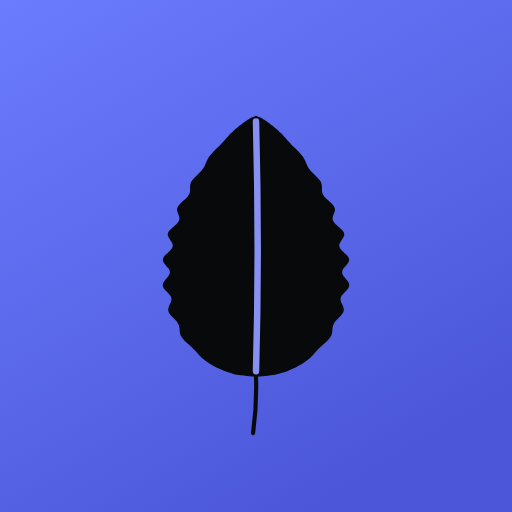
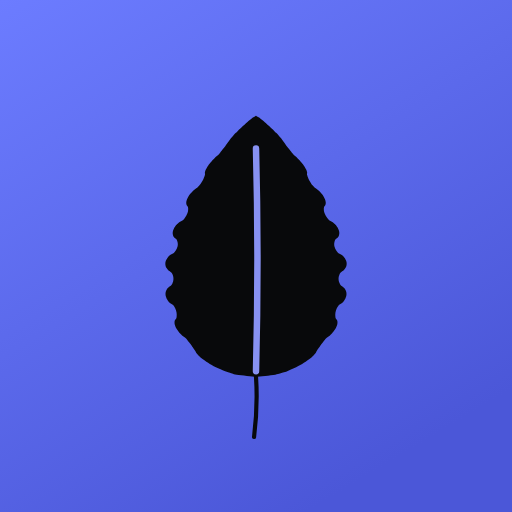
Лист ближе к натурному: круглые фестоны, три пары жилок
Прошлый вариант мельчил край рябью в десять волн и разводил четыре пары
жилок — верхняя ложилась у самой вершины и торчала за контур рожками, а
средняя жилка сливалась с ними в тёмное пятно.

Теперь фестоны круглые и их восемь: степень меньше единицы делает горбы
полными, а впадины узкими, как на настоящем листе. Жилок три пары, они
идут вбок и заворачивают вверх только у края, средняя не доходит до
кончика, а черешок продолжает её одной линией.

Claude-Session: https://claude.ai/code/session_012dgtbmCBimMGEXv6Efga8R

diff --git a/src/App.tsx b/src/App.tsx
@@ -1861,24 +1861,21 @@ const LEAF_KINDS = [
       "M 0 -19.0 Q -2.4 -20.0 -4.8 -21.6",
     ],
   },
-  // мята
-  // мята — форма с натурного листа: широкая нижняя треть, острый кончик
-  // и волнистый край. Контур считается формулой (scripts/make-leaf.mjs),
-  // а не набран руками: прежний собирался из отрезков и в мелком размере
-  // выглядел обгрызенным.
+  // мята — форма с натурного листа: широкая нижняя треть, острый кончик,
+  // круглые фестоны по краю и три пары дуговых жилок. Контур считается
+  // формулой (scripts/make-leaf.mjs), а не набран руками: прежний
+  // собирался из отрезков и в мелком размере выглядел обгрызенным.
   {
-    outline: "M 0.00 -1.00 C 0.33 -1.04, 1.52 -1.15, 1.98 -1.23 C 2.45 -1.30, 2.55 -1.38, 2.79 -1.45 C 3.02 -1.52, 3.21 -1.60, 3.39 -1.68 C 3.58 -1.75, 3.75 -1.82, 3.91 -1.90 C 4.06 -1.97, 4.21 -2.05, 4.35 -2.13 C 4.49 -2.20, 4.62 -2.27, 4.74 -2.35 C 4.87 -2.43, 4.98 -2.50, 5.09 -2.58 C 5.20 -2.65, 5.29 -2.72, 5.39 -2.80 C 5.48 -2.88, 5.56 -2.95, 5.64 -3.02 C 5.72 -3.10, 5.80 -3.17, 5.87 -3.25 C 5.94 -3.33, 6.00 -3.40, 6.07 -3.47 C 6.14 -3.55, 6.21 -3.63, 6.28 -3.70 C 6.35 -3.78, 6.42 -3.85, 6.50 -3.93 C 6.57 -4.00, 6.65 -4.08, 6.73 -4.15 C 6.81 -4.23, 6.89 -4.30, 6.98 -4.38 C 7.06 -4.45, 7.14 -4.52, 7.22 -4.60 C 7.30 -4.67, 7.38 -4.75, 7.45 -4.82 C 7.52 -4.90, 7.58 -4.97, 7.64 -5.05 C 7.69 -5.13, 7.73 -5.20, 7.77 -5.27 C 7.80 -5.35, 7.83 -5.42, 7.85 -5.50 C 7.87 -5.58, 7.88 -5.65, 7.88 -5.72 C 7.89 -5.80, 7.89 -5.87, 7.90 -5.95 C 7.91 -6.02, 7.91 -6.10, 7.93 -6.18 C 7.95 -6.25, 7.97 -6.33, 8.00 -6.40 C 8.03 -6.48, 8.07 -6.55, 8.12 -6.63 C 8.17 -6.70, 8.23 -6.78, 8.30 -6.85 C 8.37 -6.93, 8.44 -7.00, 8.51 -7.08 C 8.59 -7.15, 8.67 -7.22, 8.73 -7.30 C 8.80 -7.38, 8.87 -7.45, 8.92 -7.53 C 8.97 -7.60, 9.01 -7.67, 9.04 -7.75 C 9.06 -7.83, 9.07 -7.90, 9.07 -7.98 C 9.07 -8.05, 9.05 -8.13, 9.03 -8.20 C 9.01 -8.27, 8.97 -8.35, 8.94 -8.43 C 8.90 -8.50, 8.86 -8.57, 8.83 -8.65 C 8.80 -8.72, 8.77 -8.80, 8.75 -8.88 C 8.74 -8.95, 8.73 -9.02, 8.74 -9.10 C 8.76 -9.18, 8.78 -9.25, 8.82 -9.33 C 8.86 -9.40, 8.92 -9.47, 8.98 -9.55 C 9.04 -9.62, 9.12 -9.70, 9.19 -9.78 C 9.26 -9.85, 9.33 -9.93, 9.40 -10.00 C 9.46 -10.07, 9.52 -10.15, 9.56 -10.22 C 9.60 -10.30, 9.63 -10.38, 9.63 -10.45 C 9.64 -10.52, 9.63 -10.60, 9.60 -10.68 C 9.58 -10.75, 9.53 -10.82, 9.48 -10.90 C 9.43 -10.97, 9.36 -11.05, 9.29 -11.13 C 9.23 -11.20, 9.16 -11.28, 9.10 -11.35 C 9.05 -11.43, 8.99 -11.50, 8.96 -11.57 C 8.92 -11.65, 8.90 -11.73, 8.90 -11.80 C 8.90 -11.88, 8.91 -11.95, 8.94 -12.03 C 8.97 -12.10, 9.03 -12.18, 9.08 -12.25 C 9.14 -12.32, 9.21 -12.40, 9.27 -12.47 C 9.33 -12.55, 9.41 -12.63, 9.46 -12.70 C 9.51 -12.78, 9.56 -12.85, 9.59 -12.92 C 9.62 -13.00, 9.63 -13.07, 9.62 -13.15 C 9.62 -13.23, 9.59 -13.30, 9.54 -13.38 C 9.50 -13.45, 9.44 -13.53, 9.37 -13.60 C 9.30 -13.67, 9.21 -13.75, 9.13 -13.82 C 9.05 -13.90, 8.96 -13.98, 8.89 -14.05 C 8.82 -14.13, 8.75 -14.20, 8.70 -14.27 C 8.66 -14.35, 8.62 -14.43, 8.61 -14.50 C 8.60 -14.57, 8.60 -14.65, 8.62 -14.72 C 8.64 -14.80, 8.68 -14.88, 8.73 -14.95 C 8.77 -15.03, 8.83 -15.10, 8.88 -15.18 C 8.93 -15.25, 8.98 -15.33, 9.02 -15.40 C 9.06 -15.47, 9.10 -15.55, 9.11 -15.62 C 9.12 -15.70, 9.12 -15.78, 9.10 -15.85 C 9.08 -15.93, 9.04 -16.00, 8.98 -16.08 C 8.93 -16.15, 8.85 -16.22, 8.78 -16.30 C 8.70 -16.37, 8.60 -16.45, 8.52 -16.52 C 8.43 -16.60, 8.34 -16.68, 8.26 -16.75 C 8.19 -16.82, 8.12 -16.90, 8.06 -16.98 C 8.01 -17.05, 7.97 -17.13, 7.94 -17.20 C 7.92 -17.27, 7.91 -17.35, 7.92 -17.42 C 7.92 -17.50, 7.94 -17.58, 7.97 -17.65 C 7.99 -17.73, 8.03 -17.80, 8.06 -17.88 C 8.08 -17.95, 8.12 -18.02, 8.13 -18.10 C 8.15 -18.17, 8.16 -18.25, 8.16 -18.33 C 8.15 -18.40, 8.13 -18.48, 8.10 -18.55 C 8.07 -18.63, 8.02 -18.70, 7.95 -18.77 C 7.89 -18.85, 7.82 -18.93, 7.74 -19.00 C 7.66 -19.07, 7.57 -19.15, 7.49 -19.23 C 7.40 -19.30, 7.32 -19.38, 7.24 -19.45 C 7.17 -19.52, 7.09 -19.60, 7.04 -19.68 C 6.98 -19.75, 6.93 -19.82, 6.90 -19.90 C 6.86 -19.97, 6.84 -20.05, 6.83 -20.13 C 6.81 -20.20, 6.81 -20.28, 6.81 -20.35 C 6.81 -20.43, 6.81 -20.50, 6.81 -20.57 C 6.81 -20.65, 6.81 -20.72, 6.80 -20.80 C 6.79 -20.87, 6.78 -20.95, 6.75 -21.03 C 6.73 -21.10, 6.69 -21.18, 6.64 -21.25 C 6.60 -21.32, 6.54 -21.40, 6.47 -21.47 C 6.41 -21.55, 6.33 -21.63, 6.26 -21.70 C 6.18 -21.78, 6.10 -21.85, 6.02 -21.93 C 5.94 -22.00, 5.86 -22.07, 5.79 -22.15 C 5.72 -22.22, 5.65 -22.30, 5.59 -22.38 C 5.53 -22.45, 5.47 -22.53, 5.43 -22.60 C 5.38 -22.68, 5.34 -22.75, 5.30 -22.82 C 5.26 -22.90, 5.23 -22.98, 5.20 -23.05 C 5.17 -23.13, 5.14 -23.20, 5.11 -23.27 C 5.07 -23.35, 5.04 -23.43, 5.00 -23.50 C 4.96 -23.57, 4.92 -23.65, 4.87 -23.73 C 4.82 -23.80, 4.76 -23.88, 4.70 -23.95 C 4.64 -24.02, 4.57 -24.10, 4.50 -24.17 C 4.43 -24.25, 4.35 -24.33, 4.28 -24.40 C 4.20 -24.48, 4.12 -24.55, 4.05 -24.63 C 3.97 -24.70, 3.89 -24.77, 3.82 -24.85 C 3.74 -24.92, 3.67 -25.00, 3.60 -25.08 C 3.53 -25.15, 3.46 -25.23, 3.39 -25.30 C 3.33 -25.38, 3.26 -25.45, 3.20 -25.52 C 3.13 -25.60, 3.07 -25.68, 3.00 -25.75 C 2.93 -25.82, 2.86 -25.90, 2.79 -25.98 C 2.72 -26.05, 2.65 -26.13, 2.57 -26.20 C 2.50 -26.27, 2.42 -26.35, 2.34 -26.43 C 2.25 -26.50, 2.17 -26.57, 2.08 -26.65 C 1.99 -26.72, 1.90 -26.80, 1.81 -26.88 C 1.72 -26.95, 1.62 -27.03, 1.52 -27.10 C 1.42 -27.18, 1.32 -27.25, 1.22 -27.32 C 1.11 -27.40, 1.01 -27.47, 0.89 -27.55 C 0.77 -27.62, 0.67 -27.70, 0.52 -27.78 C 0.37 -27.85, 0.09 -27.96, 0.00 -28.00 C -0.09 -28.04, 0.09 -28.04, 0.00 -28.00 C -0.09 -27.96, -0.37 -27.85, -0.52 -27.78 C -0.67 -27.70, -0.77 -27.62, -0.89 -27.55 C -1.01 -27.47, -1.11 -27.40, -1.22 -27.32 C -1.32 -27.25, -1.42 -27.18, -1.52 -27.10 C -1.62 -27.03, -1.72 -26.95, -1.81 -26.88 C -1.90 -26.80, -1.99 -26.72, -2.08 -26.65 C -2.17 -26.57, -2.25 -26.50, -2.34 -26.43 C -2.42 -26.35, -2.50 -26.27, -2.57 -26.20 C -2.65 -26.13, -2.72 -26.05, -2.79 -25.98 C -2.86 -25.90, -2.93 -25.82, -3.00 -25.75 C -3.07 -25.68, -3.13 -25.60, -3.20 -25.52 C -3.26 -25.45, -3.33 -25.38, -3.39 -25.30 C -3.46 -25.23, -3.53 -25.15, -3.60 -25.07 C -3.67 -25.00, -3.74 -24.92, -3.82 -24.85 C -3.89 -24.77, -3.97 -24.70, -4.05 -24.63 C -4.12 -24.55, -4.20 -24.48, -4.28 -24.40 C -4.35 -24.33, -4.43 -24.25, -4.50 -24.18 C -4.57 -24.10, -4.64 -24.02, -4.70 -23.95 C -4.76 -23.88, -4.82 -23.80, -4.87 -23.73 C -4.92 -23.65, -4.96 -23.57, -5.00 -23.50 C -5.04 -23.43, -5.07 -23.35, -5.11 -23.27 C -5.14 -23.20, -5.17 -23.13, -5.20 -23.05 C -5.23 -22.98, -5.26 -22.90, -5.30 -22.82 C -5.34 -22.75, -5.38 -22.68, -5.43 -22.60 C -5.47 -22.53, -5.53 -22.45, -5.59 -22.38 C -5.65 -22.30, -5.72 -22.22, -5.79 -22.15 C -5.86 -22.07, -5.94 -22.00, -6.02 -21.93 C -6.10 -21.85, -6.18 -21.77, -6.26 -21.70 C -6.33 -21.63, -6.41 -21.55, -6.47 -21.47 C -6.54 -21.40, -6.60 -21.32, -6.64 -21.25 C -6.69 -21.18, -6.73 -21.10, -6.75 -21.03 C -6.78 -20.95, -6.79 -20.88, -6.80 -20.80 C -6.81 -20.73, -6.81 -20.65, -6.81 -20.57 C -6.81 -20.50, -6.81 -20.43, -6.81 -20.35 C -6.81 -20.28, -6.81 -20.20, -6.83 -20.12 C -6.84 -20.05, -6.86 -19.97, -6.90 -19.90 C -6.93 -19.82, -6.98 -19.75, -7.04 -19.68 C -7.09 -19.60, -7.17 -19.52, -7.24 -19.45 C -7.32 -19.38, -7.40 -19.30, -7.49 -19.23 C -7.57 -19.15, -7.66 -19.08, -7.74 -19.00 C -7.82 -18.93, -7.89 -18.85, -7.95 -18.77 C -8.02 -18.70, -8.07 -18.63, -8.10 -18.55 C -8.13 -18.48, -8.15 -18.40, -8.16 -18.32 C -8.16 -18.25, -8.15 -18.17, -8.13 -18.10 C -8.12 -18.02, -8.08 -17.95, -8.06 -17.88 C -8.03 -17.80, -7.99 -17.73, -7.97 -17.65 C -7.94 -17.58, -7.92 -17.50, -7.92 -17.43 C -7.91 -17.35, -7.92 -17.27, -7.94 -17.20 C -7.97 -17.13, -8.01 -17.05, -8.06 -16.98 C -8.12 -16.90, -8.19 -16.82, -8.26 -16.75 C -8.34 -16.68, -8.43 -16.60, -8.52 -16.52 C -8.60 -16.45, -8.70 -16.37, -8.78 -16.30 C -8.85 -16.22, -8.93 -16.15, -8.98 -16.08 C -9.04 -16.00, -9.08 -15.93, -9.10 -15.85 C -9.12 -15.78, -9.12 -15.70, -9.11 -15.63 C -9.10 -15.55, -9.06 -15.48, -9.02 -15.40 C -8.98 -15.32, -8.93 -15.25, -8.88 -15.18 C -8.83 -15.10, -8.77 -15.02, -8.73 -14.95 C -8.68 -14.88, -8.64 -14.80, -8.62 -14.72 C -8.60 -14.65, -8.60 -14.57, -8.61 -14.50 C -8.62 -14.43, -8.66 -14.35, -8.70 -14.28 C -8.75 -14.20, -8.82 -14.13, -8.89 -14.05 C -8.96 -13.97, -9.05 -13.90, -9.13 -13.82 C -9.21 -13.75, -9.30 -13.67, -9.37 -13.60 C -9.44 -13.53, -9.50 -13.45, -9.54 -13.38 C -9.59 -13.30, -9.62 -13.22, -9.62 -13.15 C -9.63 -13.07, -9.62 -13.00, -9.59 -12.92 C -9.56 -12.85, -9.51 -12.78, -9.46 -12.70 C -9.41 -12.63, -9.33 -12.55, -9.27 -12.48 C -9.21 -12.40, -9.14 -12.32, -9.08 -12.25 C -9.03 -12.17, -8.97 -12.10, -8.94 -12.03 C -8.91 -11.95, -8.90 -11.88, -8.90 -11.80 C -8.90 -11.73, -8.92 -11.65, -8.96 -11.58 C -8.99 -11.50, -9.05 -11.43, -9.10 -11.35 C -9.16 -11.27, -9.23 -11.20, -9.29 -11.13 C -9.36 -11.05, -9.43 -10.98, -9.48 -10.90 C -9.53 -10.82, -9.58 -10.75, -9.60 -10.67 C -9.63 -10.60, -9.64 -10.52, -9.63 -10.45 C -9.63 -10.38, -9.60 -10.30, -9.56 -10.22 C -9.52 -10.15, -9.46 -10.08, -9.40 -10.00 C -9.33 -9.93, -9.26 -9.85, -9.19 -9.77 C -9.12 -9.70, -9.04 -9.62, -8.98 -9.55 C -8.92 -9.47, -8.86 -9.40, -8.82 -9.33 C -8.78 -9.25, -8.76 -9.18, -8.74 -9.10 C -8.73 -9.03, -8.74 -8.95, -8.75 -8.88 C -8.77 -8.80, -8.80 -8.72, -8.83 -8.65 C -8.86 -8.57, -8.90 -8.50, -8.94 -8.43 C -8.97 -8.35, -9.01 -8.28, -9.03 -8.20 C -9.05 -8.13, -9.07 -8.05, -9.07 -7.97 C -9.07 -7.90, -9.06 -7.83, -9.04 -7.75 C -9.01 -7.67, -8.97 -7.60, -8.92 -7.53 C -8.87 -7.45, -8.80 -7.37, -8.73 -7.30 C -8.67 -7.22, -8.59 -7.15, -8.51 -7.07 C -8.44 -7.00, -8.37 -6.93, -8.30 -6.85 C -8.23 -6.78, -8.17 -6.70, -8.12 -6.63 C -8.07 -6.55, -8.03 -6.47, -8.00 -6.40 C -7.97 -6.32, -7.95 -6.25, -7.93 -6.17 C -7.91 -6.10, -7.91 -6.03, -7.90 -5.95 C -7.89 -5.88, -7.89 -5.80, -7.88 -5.73 C -7.88 -5.65, -7.87 -5.57, -7.85 -5.50 C -7.83 -5.42, -7.80 -5.35, -7.77 -5.27 C -7.73 -5.20, -7.69 -5.13, -7.64 -5.05 C -7.58 -4.98, -7.52 -4.90, -7.45 -4.83 C -7.38 -4.75, -7.30 -4.67, -7.22 -4.60 C -7.14 -4.52, -7.06 -4.45, -6.98 -4.38 C -6.89 -4.30, -6.81 -4.23, -6.73 -4.15 C -6.65 -4.08, -6.57 -4.00, -6.50 -3.92 C -6.42 -3.85, -6.35 -3.77, -6.28 -3.70 C -6.21 -3.62, -6.14 -3.55, -6.07 -3.48 C -6.00 -3.40, -5.94 -3.33, -5.87 -3.25 C -5.80 -3.18, -5.72 -3.10, -5.64 -3.02 C -5.56 -2.95, -5.48 -2.87, -5.39 -2.80 C -5.29 -2.73, -5.20 -2.65, -5.09 -2.58 C -4.98 -2.50, -4.87 -2.43, -4.74 -2.35 C -4.62 -2.28, -4.49 -2.20, -4.35 -2.12 C -4.21 -2.05, -4.06 -1.97, -3.91 -1.90 C -3.75 -1.83, -3.58 -1.75, -3.39 -1.68 C -3.21 -1.60, -3.02 -1.53, -2.79 -1.45 C -2.55 -1.38, -2.45 -1.30, -1.98 -1.22 C -1.52 -1.15, -0.33 -1.04, 0.00 -1.00 Z",
-    stem: "M 0 -1 Q 0.1 1.8 -0.3 4.8",
+    outline: "M 0.00 -1.00 C 0.33 -1.04, 1.52 -1.15, 1.99 -1.23 C 2.45 -1.30, 2.55 -1.38, 2.79 -1.45 C 3.02 -1.52, 3.21 -1.60, 3.39 -1.68 C 3.58 -1.75, 3.75 -1.82, 3.91 -1.90 C 4.07 -1.97, 4.22 -2.05, 4.37 -2.13 C 4.51 -2.20, 4.64 -2.27, 4.77 -2.35 C 4.89 -2.43, 5.01 -2.50, 5.13 -2.58 C 5.24 -2.65, 5.35 -2.72, 5.45 -2.80 C 5.55 -2.88, 5.64 -2.95, 5.73 -3.02 C 5.82 -3.10, 5.90 -3.17, 5.97 -3.25 C 6.04 -3.33, 6.11 -3.40, 6.17 -3.47 C 6.22 -3.55, 6.24 -3.63, 6.29 -3.70 C 6.34 -3.78, 6.39 -3.85, 6.44 -3.93 C 6.49 -4.00, 6.54 -4.08, 6.60 -4.15 C 6.65 -4.23, 6.70 -4.30, 6.75 -4.38 C 6.81 -4.45, 6.86 -4.52, 6.92 -4.60 C 6.98 -4.67, 7.04 -4.75, 7.10 -4.82 C 7.17 -4.90, 7.22 -4.97, 7.31 -5.05 C 7.39 -5.13, 7.52 -5.20, 7.61 -5.27 C 7.70 -5.35, 7.77 -5.42, 7.84 -5.50 C 7.91 -5.58, 7.98 -5.65, 8.03 -5.72 C 8.09 -5.80, 8.15 -5.87, 8.19 -5.95 C 8.24 -6.02, 8.28 -6.10, 8.31 -6.18 C 8.34 -6.25, 8.37 -6.33, 8.39 -6.40 C 8.41 -6.48, 8.42 -6.55, 8.42 -6.63 C 8.42 -6.70, 8.41 -6.78, 8.38 -6.85 C 8.35 -6.93, 8.26 -7.00, 8.23 -7.08 C 8.20 -7.15, 8.20 -7.22, 8.20 -7.30 C 8.19 -7.38, 8.19 -7.45, 8.20 -7.53 C 8.20 -7.60, 8.21 -7.67, 8.23 -7.75 C 8.25 -7.83, 8.27 -7.90, 8.30 -7.98 C 8.33 -8.05, 8.37 -8.13, 8.41 -8.20 C 8.46 -8.27, 8.49 -8.35, 8.57 -8.43 C 8.65 -8.50, 8.80 -8.57, 8.89 -8.65 C 8.98 -8.72, 9.04 -8.80, 9.10 -8.88 C 9.16 -8.95, 9.20 -9.02, 9.24 -9.10 C 9.27 -9.18, 9.30 -9.25, 9.32 -9.33 C 9.34 -9.40, 9.35 -9.47, 9.35 -9.55 C 9.35 -9.62, 9.35 -9.70, 9.33 -9.78 C 9.31 -9.85, 9.29 -9.93, 9.25 -10.00 C 9.21 -10.07, 9.16 -10.15, 9.09 -10.22 C 9.01 -10.30, 8.85 -10.38, 8.78 -10.45 C 8.71 -10.52, 8.68 -10.60, 8.64 -10.68 C 8.61 -10.75, 8.58 -10.82, 8.56 -10.90 C 8.55 -10.97, 8.53 -11.05, 8.53 -11.13 C 8.53 -11.20, 8.54 -11.28, 8.55 -11.35 C 8.57 -11.43, 8.59 -11.50, 8.62 -11.57 C 8.65 -11.65, 8.68 -11.73, 8.75 -11.80 C 8.83 -11.88, 8.99 -11.95, 9.07 -12.03 C 9.15 -12.10, 9.20 -12.18, 9.24 -12.25 C 9.29 -12.32, 9.32 -12.40, 9.34 -12.47 C 9.36 -12.55, 9.37 -12.63, 9.37 -12.70 C 9.37 -12.78, 9.36 -12.85, 9.34 -12.92 C 9.32 -13.00, 9.29 -13.07, 9.25 -13.15 C 9.21 -13.23, 9.17 -13.30, 9.10 -13.38 C 9.04 -13.45, 8.97 -13.53, 8.87 -13.60 C 8.77 -13.67, 8.59 -13.75, 8.49 -13.82 C 8.40 -13.90, 8.36 -13.98, 8.31 -14.05 C 8.25 -14.13, 8.21 -14.20, 8.18 -14.27 C 8.15 -14.35, 8.12 -14.43, 8.10 -14.50 C 8.09 -14.57, 8.08 -14.65, 8.08 -14.72 C 8.08 -14.80, 8.09 -14.88, 8.11 -14.95 C 8.13 -15.03, 8.14 -15.10, 8.19 -15.18 C 8.25 -15.25, 8.39 -15.33, 8.45 -15.40 C 8.52 -15.47, 8.55 -15.55, 8.57 -15.62 C 8.60 -15.70, 8.60 -15.78, 8.61 -15.85 C 8.61 -15.93, 8.60 -16.00, 8.58 -16.08 C 8.56 -16.15, 8.54 -16.22, 8.50 -16.30 C 8.47 -16.37, 8.43 -16.45, 8.37 -16.52 C 8.32 -16.60, 8.26 -16.68, 8.19 -16.75 C 8.12 -16.82, 8.04 -16.90, 7.93 -16.98 C 7.83 -17.05, 7.66 -17.13, 7.56 -17.20 C 7.47 -17.27, 7.42 -17.35, 7.36 -17.42 C 7.30 -17.50, 7.25 -17.58, 7.21 -17.65 C 7.16 -17.73, 7.13 -17.80, 7.10 -17.88 C 7.07 -17.95, 7.05 -18.02, 7.03 -18.10 C 7.02 -18.17, 7.01 -18.25, 7.01 -18.33 C 7.01 -18.40, 7.00 -18.48, 7.03 -18.55 C 7.05 -18.63, 7.14 -18.70, 7.17 -18.77 C 7.20 -18.85, 7.21 -18.93, 7.21 -19.00 C 7.21 -19.07, 7.19 -19.15, 7.17 -19.23 C 7.15 -19.30, 7.12 -19.38, 7.09 -19.45 C 7.06 -19.52, 7.02 -19.60, 6.97 -19.68 C 6.92 -19.75, 6.87 -19.82, 6.81 -19.90 C 6.75 -19.97, 6.68 -20.05, 6.61 -20.13 C 6.54 -20.20, 6.46 -20.28, 6.37 -20.35 C 6.27 -20.43, 6.13 -20.50, 6.05 -20.57 C 5.96 -20.65, 5.91 -20.72, 5.84 -20.80 C 5.78 -20.87, 5.73 -20.95, 5.68 -21.03 C 5.63 -21.10, 5.58 -21.18, 5.54 -21.25 C 5.50 -21.32, 5.46 -21.40, 5.43 -21.47 C 5.40 -21.55, 5.37 -21.63, 5.34 -21.70 C 5.32 -21.78, 5.28 -21.85, 5.27 -21.93 C 5.26 -22.00, 5.29 -22.07, 5.28 -22.15 C 5.26 -22.22, 5.24 -22.30, 5.21 -22.38 C 5.17 -22.45, 5.13 -22.53, 5.09 -22.60 C 5.05 -22.68, 5.00 -22.75, 4.95 -22.82 C 4.90 -22.90, 4.84 -22.98, 4.78 -23.05 C 4.73 -23.13, 4.66 -23.20, 4.60 -23.27 C 4.53 -23.35, 4.47 -23.43, 4.39 -23.50 C 4.32 -23.57, 4.25 -23.65, 4.17 -23.73 C 4.09 -23.80, 3.99 -23.88, 3.91 -23.95 C 3.84 -24.02, 3.78 -24.10, 3.71 -24.17 C 3.65 -24.25, 3.59 -24.33, 3.53 -24.40 C 3.47 -24.48, 3.41 -24.55, 3.35 -24.63 C 3.29 -24.70, 3.24 -24.77, 3.18 -24.85 C 3.13 -24.92, 3.07 -25.00, 3.02 -25.08 C 2.96 -25.15, 2.90 -25.23, 2.85 -25.30 C 2.80 -25.38, 2.76 -25.45, 2.70 -25.52 C 2.65 -25.60, 2.58 -25.68, 2.52 -25.75 C 2.46 -25.82, 2.39 -25.90, 2.32 -25.98 C 2.25 -26.05, 2.18 -26.13, 2.11 -26.20 C 2.03 -26.27, 1.96 -26.35, 1.88 -26.43 C 1.81 -26.50, 1.73 -26.57, 1.65 -26.65 C 1.57 -26.72, 1.49 -26.80, 1.41 -26.88 C 1.33 -26.95, 1.25 -27.03, 1.16 -27.10 C 1.08 -27.18, 0.99 -27.25, 0.91 -27.32 C 0.82 -27.40, 0.73 -27.47, 0.64 -27.55 C 0.55 -27.62, 0.46 -27.70, 0.36 -27.78 C 0.25 -27.85, 0.06 -27.96, 0.00 -28.00 C -0.06 -28.04, 0.06 -28.04, 0.00 -28.00 C -0.06 -27.96, -0.25 -27.85, -0.36 -27.78 C -0.46 -27.70, -0.55 -27.62, -0.64 -27.55 C -0.73 -27.47, -0.82 -27.40, -0.91 -27.32 C -0.99 -27.25, -1.08 -27.18, -1.16 -27.10 C -1.25 -27.03, -1.33 -26.95, -1.41 -26.88 C -1.49 -26.80, -1.57 -26.72, -1.65 -26.65 C -1.73 -26.57, -1.81 -26.50, -1.88 -26.43 C -1.96 -26.35, -2.03 -26.27, -2.11 -26.20 C -2.18 -26.13, -2.25 -26.05, -2.32 -25.98 C -2.39 -25.90, -2.46 -25.82, -2.52 -25.75 C -2.58 -25.68, -2.65 -25.60, -2.70 -25.52 C -2.76 -25.45, -2.80 -25.38, -2.85 -25.30 C -2.90 -25.23, -2.96 -25.15, -3.02 -25.07 C -3.07 -25.00, -3.13 -24.92, -3.18 -24.85 C -3.24 -24.77, -3.29 -24.70, -3.35 -24.63 C -3.41 -24.55, -3.47 -24.48, -3.53 -24.40 C -3.59 -24.33, -3.65 -24.25, -3.71 -24.18 C -3.78 -24.10, -3.84 -24.02, -3.91 -23.95 C -3.99 -23.88, -4.09 -23.80, -4.17 -23.73 C -4.25 -23.65, -4.32 -23.57, -4.39 -23.50 C -4.47 -23.43, -4.53 -23.35, -4.60 -23.27 C -4.66 -23.20, -4.73 -23.13, -4.78 -23.05 C -4.84 -22.98, -4.90 -22.90, -4.95 -22.82 C -5.00 -22.75, -5.05 -22.68, -5.09 -22.60 C -5.13 -22.53, -5.17 -22.45, -5.21 -22.38 C -5.24 -22.30, -5.26 -22.22, -5.28 -22.15 C -5.29 -22.07, -5.26 -22.00, -5.27 -21.93 C -5.28 -21.85, -5.32 -21.77, -5.34 -21.70 C -5.37 -21.63, -5.40 -21.55, -5.43 -21.47 C -5.46 -21.40, -5.50 -21.32, -5.54 -21.25 C -5.58 -21.18, -5.63 -21.10, -5.68 -21.03 C -5.73 -20.95, -5.78 -20.88, -5.84 -20.80 C -5.91 -20.73, -5.96 -20.65, -6.05 -20.57 C -6.13 -20.50, -6.27 -20.43, -6.37 -20.35 C -6.46 -20.28, -6.54 -20.20, -6.61 -20.12 C -6.68 -20.05, -6.75 -19.97, -6.81 -19.90 C -6.87 -19.82, -6.92 -19.75, -6.97 -19.68 C -7.02 -19.60, -7.06 -19.52, -7.09 -19.45 C -7.12 -19.38, -7.15 -19.30, -7.17 -19.23 C -7.19 -19.15, -7.21 -19.08, -7.21 -19.00 C -7.21 -18.93, -7.20 -18.85, -7.17 -18.77 C -7.14 -18.70, -7.05 -18.63, -7.03 -18.55 C -7.00 -18.48, -7.01 -18.40, -7.01 -18.32 C -7.01 -18.25, -7.02 -18.17, -7.03 -18.10 C -7.05 -18.02, -7.07 -17.95, -7.10 -17.88 C -7.13 -17.80, -7.16 -17.73, -7.21 -17.65 C -7.25 -17.58, -7.30 -17.50, -7.36 -17.43 C -7.42 -17.35, -7.47 -17.27, -7.56 -17.20 C -7.66 -17.13, -7.83 -17.05, -7.93 -16.98 C -8.04 -16.90, -8.12 -16.82, -8.19 -16.75 C -8.26 -16.68, -8.32 -16.60, -8.37 -16.52 C -8.43 -16.45, -8.47 -16.37, -8.50 -16.30 C -8.54 -16.22, -8.56 -16.15, -8.58 -16.08 C -8.60 -16.00, -8.61 -15.93, -8.61 -15.85 C -8.60 -15.78, -8.60 -15.70, -8.57 -15.63 C -8.55 -15.55, -8.52 -15.48, -8.45 -15.40 C -8.39 -15.32, -8.25 -15.25, -8.19 -15.18 C -8.14 -15.10, -8.13 -15.02, -8.11 -14.95 C -8.09 -14.88, -8.08 -14.80, -8.08 -14.72 C -8.08 -14.65, -8.09 -14.57, -8.10 -14.50 C -8.12 -14.43, -8.15 -14.35, -8.18 -14.28 C -8.21 -14.20, -8.25 -14.13, -8.31 -14.05 C -8.36 -13.97, -8.40 -13.90, -8.49 -13.82 C -8.59 -13.75, -8.77 -13.67, -8.87 -13.60 C -8.97 -13.53, -9.04 -13.45, -9.10 -13.38 C -9.17 -13.30, -9.21 -13.22, -9.25 -13.15 C -9.29 -13.07, -9.32 -13.00, -9.34 -12.92 C -9.36 -12.85, -9.37 -12.78, -9.37 -12.70 C -9.37 -12.63, -9.36 -12.55, -9.34 -12.48 C -9.32 -12.40, -9.29 -12.32, -9.24 -12.25 C -9.20 -12.17, -9.15 -12.10, -9.07 -12.03 C -8.99 -11.95, -8.83 -11.88, -8.75 -11.80 C -8.68 -11.73, -8.65 -11.65, -8.62 -11.58 C -8.59 -11.50, -8.57 -11.43, -8.55 -11.35 C -8.54 -11.27, -8.53 -11.20, -8.53 -11.13 C -8.53 -11.05, -8.55 -10.98, -8.56 -10.90 C -8.58 -10.82, -8.61 -10.75, -8.64 -10.67 C -8.68 -10.60, -8.71 -10.52, -8.78 -10.45 C -8.85 -10.38, -9.01 -10.30, -9.09 -10.22 C -9.16 -10.15, -9.21 -10.08, -9.25 -10.00 C -9.29 -9.93, -9.31 -9.85, -9.33 -9.77 C -9.35 -9.70, -9.35 -9.62, -9.35 -9.55 C -9.35 -9.47, -9.34 -9.40, -9.32 -9.33 C -9.30 -9.25, -9.27 -9.18, -9.24 -9.10 C -9.20 -9.03, -9.16 -8.95, -9.10 -8.88 C -9.04 -8.80, -8.98 -8.72, -8.89 -8.65 C -8.80 -8.57, -8.65 -8.50, -8.57 -8.43 C -8.49 -8.35, -8.46 -8.28, -8.41 -8.20 C -8.37 -8.13, -8.33 -8.05, -8.30 -7.97 C -8.27 -7.90, -8.25 -7.83, -8.23 -7.75 C -8.21 -7.67, -8.20 -7.60, -8.20 -7.53 C -8.19 -7.45, -8.19 -7.37, -8.20 -7.30 C -8.20 -7.22, -8.20 -7.15, -8.23 -7.07 C -8.26 -7.00, -8.35 -6.93, -8.38 -6.85 C -8.41 -6.78, -8.42 -6.70, -8.42 -6.63 C -8.42 -6.55, -8.41 -6.47, -8.39 -6.40 C -8.37 -6.32, -8.34 -6.25, -8.31 -6.17 C -8.28 -6.10, -8.24 -6.03, -8.19 -5.95 C -8.15 -5.88, -8.09 -5.80, -8.03 -5.73 C -7.98 -5.65, -7.91 -5.57, -7.84 -5.50 C -7.77 -5.42, -7.70 -5.35, -7.61 -5.27 C -7.52 -5.20, -7.39 -5.13, -7.31 -5.05 C -7.22 -4.98, -7.17 -4.90, -7.10 -4.83 C -7.04 -4.75, -6.98 -4.67, -6.92 -4.60 C -6.86 -4.52, -6.81 -4.45, -6.75 -4.38 C -6.70 -4.30, -6.65 -4.23, -6.60 -4.15 C -6.54 -4.08, -6.49 -4.00, -6.44 -3.92 C -6.39 -3.85, -6.34 -3.77, -6.29 -3.70 C -6.24 -3.62, -6.22 -3.55, -6.17 -3.48 C -6.11 -3.40, -6.04 -3.33, -5.97 -3.25 C -5.90 -3.18, -5.82 -3.10, -5.73 -3.02 C -5.64 -2.95, -5.55 -2.87, -5.45 -2.80 C -5.35 -2.73, -5.24 -2.65, -5.13 -2.58 C -5.01 -2.50, -4.89 -2.43, -4.77 -2.35 C -4.64 -2.28, -4.51 -2.20, -4.37 -2.12 C -4.22 -2.05, -4.07 -1.97, -3.91 -1.90 C -3.75 -1.83, -3.58 -1.75, -3.39 -1.68 C -3.21 -1.60, -3.02 -1.53, -2.79 -1.45 C -2.55 -1.38, -2.45 -1.30, -1.99 -1.22 C -1.52 -1.15, -0.33 -1.04, 0.00 -1.00 Z",
+    stem: "M 0 -1 Q 0.2 2 -0.2 5.2",
     veins: [
-      "M 0 -1.6 Q 0.35 -14 0 -27.4",
-      "M 0.20 -5.05 Q 3.12 -5.86 6.94 -10.40",
-      "M -0.20 -5.05 Q -3.12 -5.86 -6.94 -10.40",
-      "M 0.20 -9.91 Q 2.91 -10.72 6.46 -15.23",
-      "M -0.20 -9.91 Q -2.91 -10.72 -6.46 -15.23",
-      "M 0.20 -15.04 Q 2.21 -15.85 4.90 -20.34",
-      "M -0.20 -15.04 Q -2.21 -15.85 -4.90 -20.34",
-      "M 0.20 -20.17 Q 1.02 -20.98 2.27 -25.44",
-      "M -0.20 -20.17 Q -1.02 -20.98 -2.27 -25.44",
+      "M 0 -1.6 Q 0.3 -13 0 -24.6",
+      "M 0.20 -5.86 Q 3.41 -6.23 6.56 -12.01",
+      "M -0.20 -5.86 Q -3.41 -6.23 -6.56 -12.01",
+      "M 0.20 -11.26 Q 2.74 -11.63 5.27 -17.38",
+      "M -0.20 -11.26 Q -2.74 -11.63 -5.27 -17.38",
+      "M 0.20 -16.66 Q 1.84 -17.03 3.54 -22.76",
+      "M -0.20 -16.66 Q -1.84 -17.03 -3.54 -22.76",
     ],
   },
 ];
